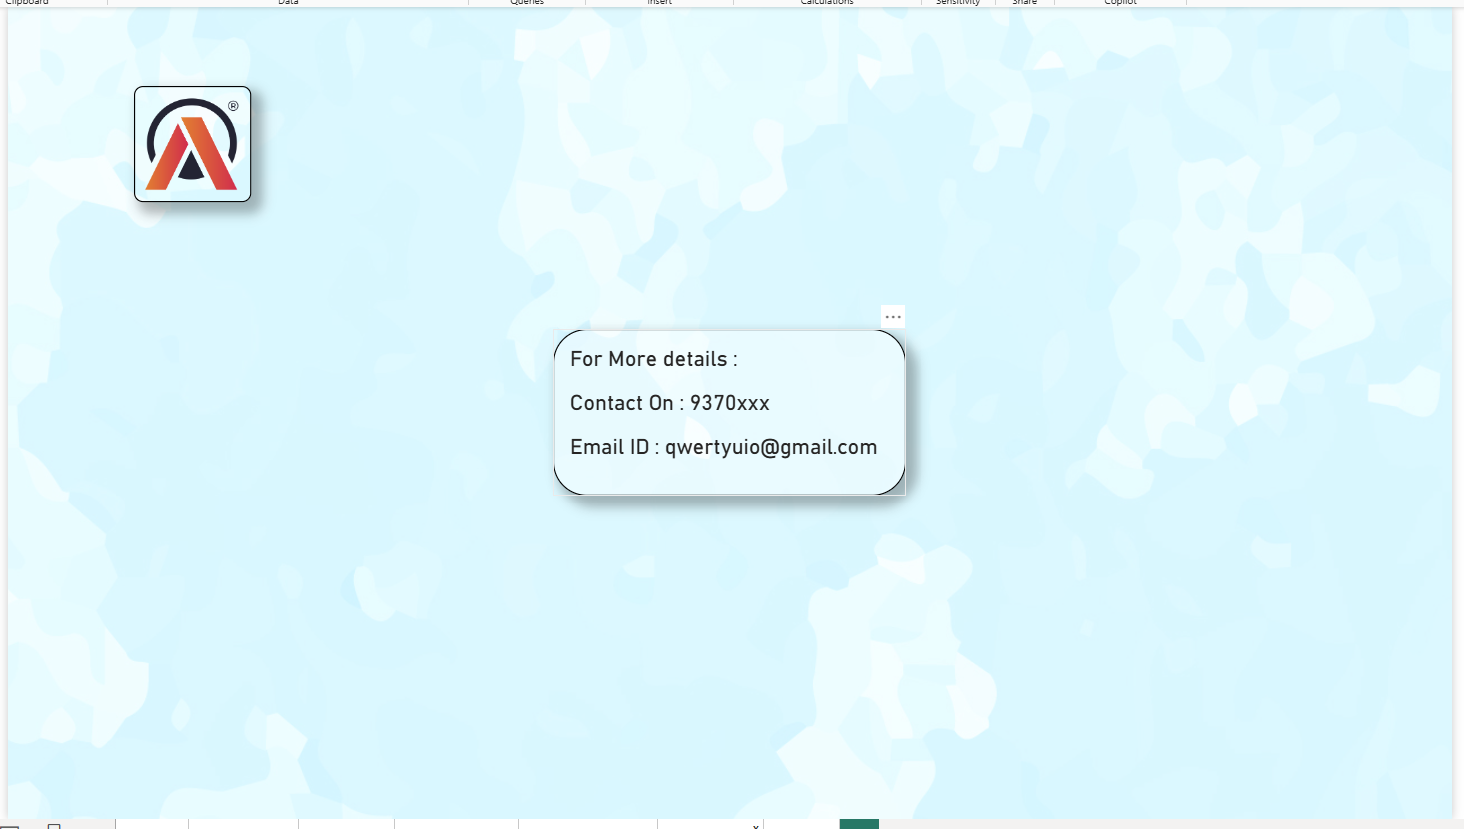
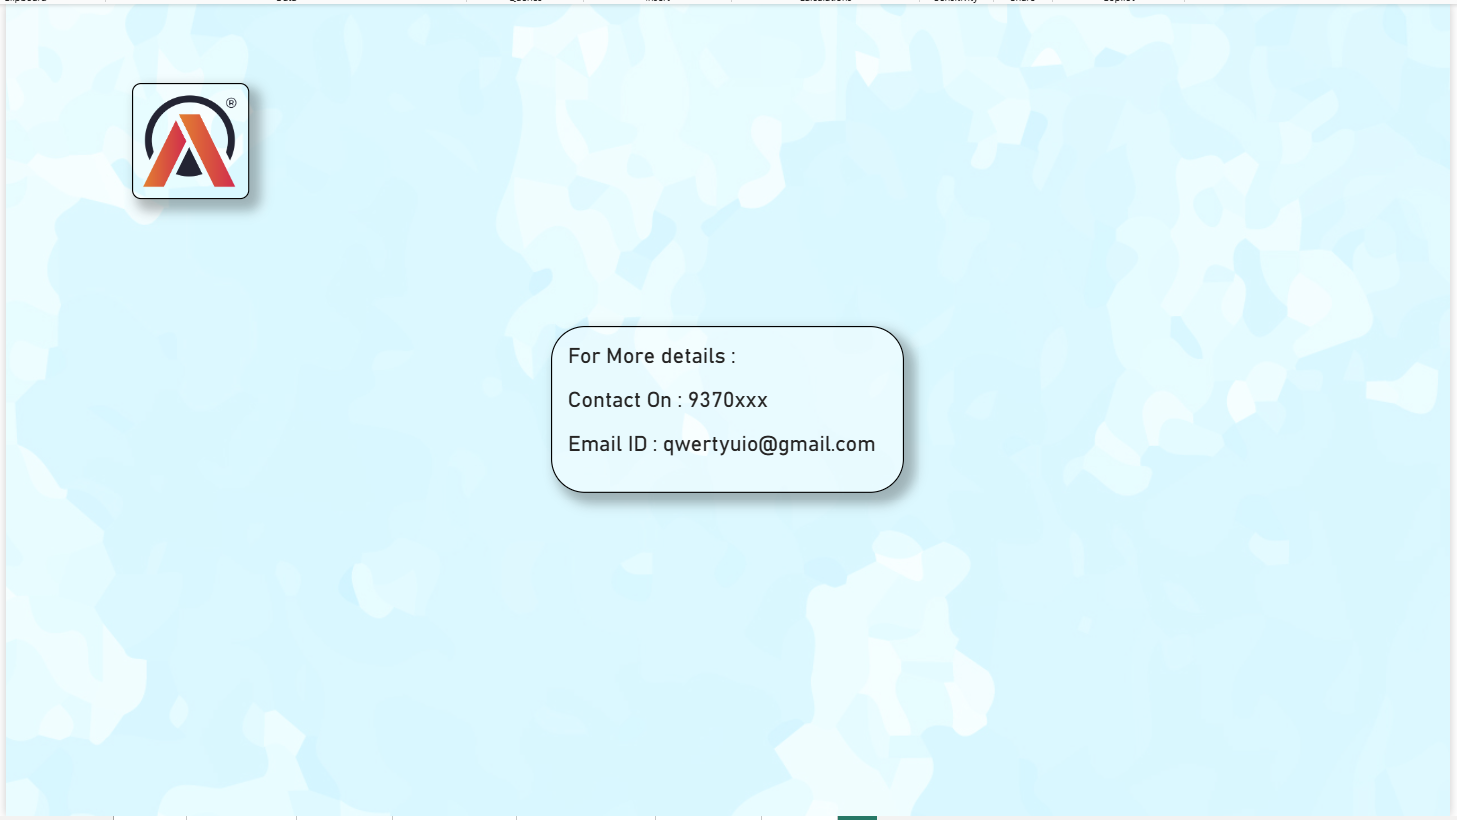
Added home page info

diff --git a/README.md b/README.md
@@ -78,19 +78,23 @@ The dashboard includes five navigable views, each designed for a specific busine
 
 View	Focus	and  Key Insights
 
-![ER Diagram](Images/Screenshot%202025-10-28%20151901.png)
+![alt text](Images/Home.png)
+
+- **Home page View**	for menu like navigation to other views
+
+![alt text](Images/Screenshot%202025-10-28%20151901.png)
 
 - **Sales View**	Regional & product-level sales performance	Actual vs. Forecast, Top/Bottom markets, Growth trends.
 
-![ER Diagram](Images/Screenshot%202025-10-28%20151908.png)
+![alt text](Images/Screenshot%202025-10-28%20151908.png)
 
 - **Marketing View**	Market share and promotional impact	Market segmentation, campaign ROI, sales uplift.
 
 
-![ER Diagram](Images/Screenshot%202025-10-28%20151855.png)
+![alt text](Images/Screenshot%202025-10-28%20151855.png)
 - **Finance View**	Revenue, cost, and profitability tracking	Net margin, deductions, freight & manufacturing costs
 
-![ER Diagram](Images/Screenshot%202025-10-28%20151914.png)
+![alt text](Images/Screenshot%202025-10-28%20151914.png)
 
 - **Supply Chain View**	Logistics and shipment analysis	Freight cost trends, delivery efficiency, demand vs. supply
 
